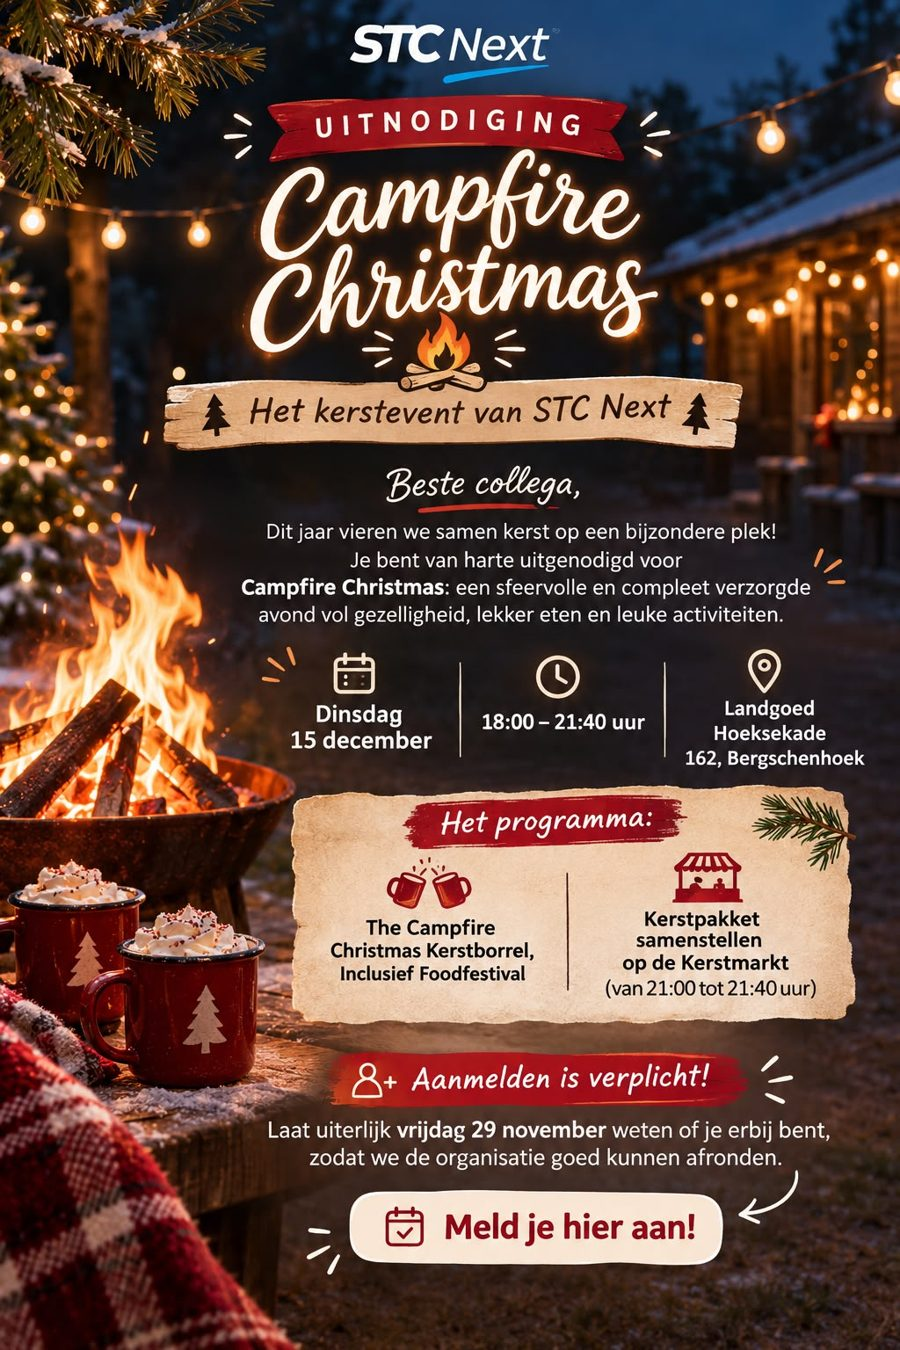
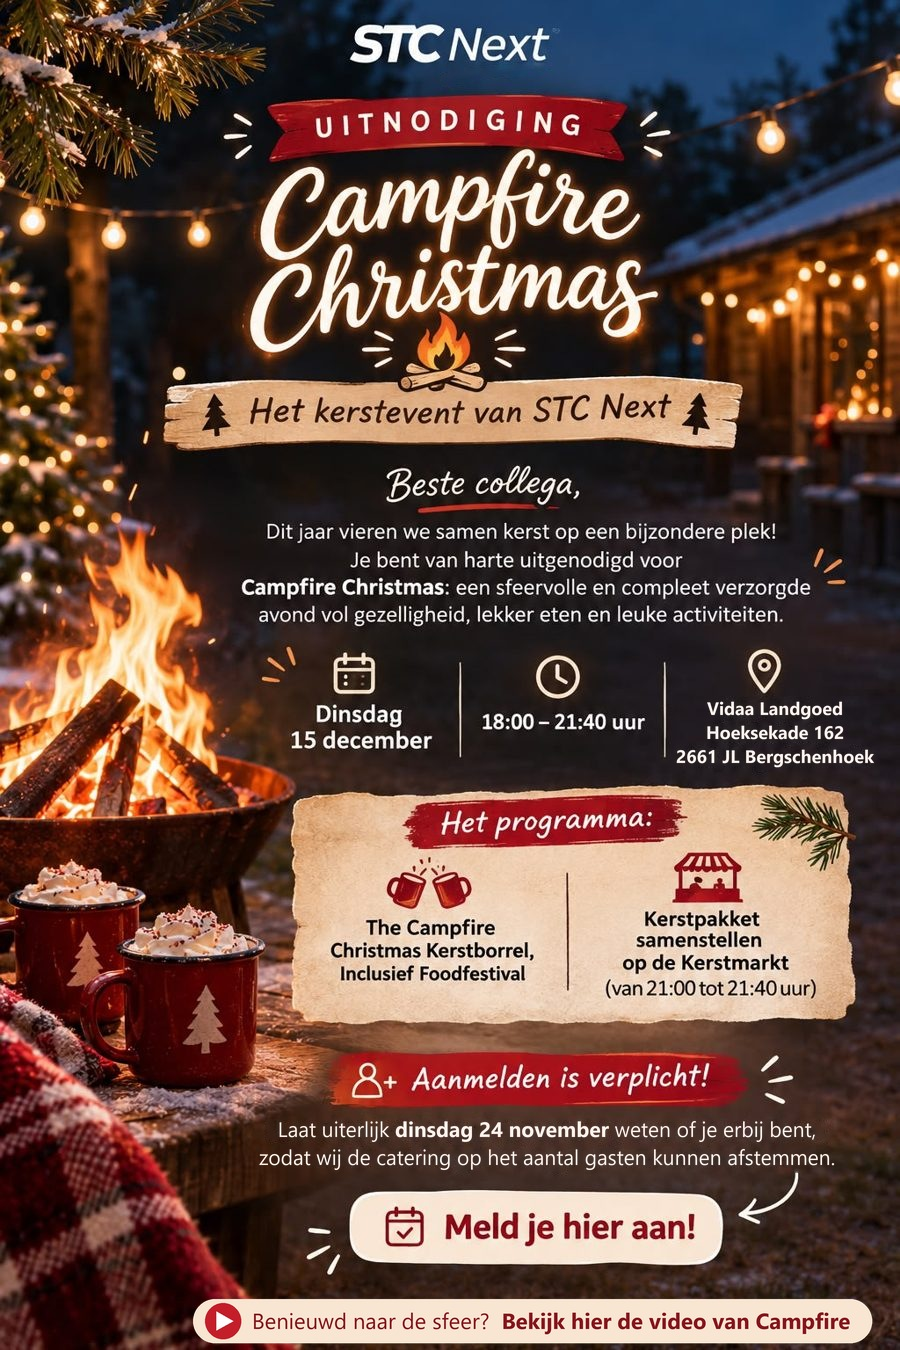
feat: yeni hesap, son gün 24 Kasım, karttaki metinler ve animasyonlu video düğmesi

diff --git a/index.html b/index.html
@@ -19,6 +19,12 @@
   .meld { position: absolute; left: 38.6%; top: 88.2%; width: 42%; height: 5.6%; min-height: 0; padding: 0; border: 0; border-radius: 14px; background: transparent;
     animation: gloed 2.2s ease-in-out infinite; }
   @keyframes gloed { 50% { box-shadow: 0 0 0 4px rgba(255, 190, 90, .55), 0 0 26px 6px rgba(255, 170, 70, .55); } }
+  /* Görseldeki video düğmesinin tam üstünde (yer: mail/maak-kaart.py çıktısı): aynı parlama + büyüyüp küçülen oynat üçgeni. */
+  .vid { position: absolute; left: 21.44%; top: 96.22%; width: 75.44%; height: 3.26%; border-radius: 99px; animation: gloed 2.2s ease-in-out infinite; }
+  .vid:focus-visible { outline: 3px solid var(--glow); outline-offset: 2px; }
+  .vid i { position: absolute; left: 1.77%; top: 9.09%; height: 81.82%; aspect-ratio: 1; border-radius: 50%; background: #c41e2a; }
+  .vid i::after { content: ""; position: absolute; inset: 0; background: #fff; clip-path: polygon(32% 24%, 32% 76%, 79% 50%); animation: speel 1.1s ease-in-out infinite; }
+  @keyframes speel { 0%, 100% { transform: scale(.72); } 50% { transform: scale(1.22); } }
   dialog { border: 0; width: min(420px, calc(100vw - 28px)); max-height: calc(100vh - 28px); padding-top: 34px !important; }
   dialog::backdrop { background: rgba(10, 8, 6, .72); backdrop-filter: blur(3px); }
   .sluit { position: absolute; right: 10px; top: 10px; min-height: 0; width: 40px; height: 40px; padding: 0; border: 0; border-radius: 12px; background: transparent; color: var(--muted); font-size: 18px; }
@@ -36,22 +42,26 @@
   button[aria-pressed="true"] { box-shadow: 0 0 0 3px var(--paper), 0 0 0 6px #2e7d4f !important; }
   button .vink { display: none; }
   button[aria-pressed="true"] .vink { display: inline; }
-  .status { margin: 16px 0 0; padding: 12px 14px; border-radius: 14px; font-weight: 600; text-align: center; }
-  .status.ok { background: #e2f1e6; color: #1d5a37; }
+  .status { margin: 18px 0 0; padding: 12px 14px; border-radius: 16px; font-weight: 600; text-align: center; }
+  .status.ok { display: flex; align-items: center; justify-content: center; gap: 12px; padding: 16px; font-size: 18px; font-weight: 700; line-height: 1.3; text-align: left;
+    color: #fff; background: linear-gradient(180deg, #2a9159, #1f7a48); box-shadow: 0 8px 20px rgba(31, 122, 72, .35); animation: pop .4s ease-out; }
+  .status.ok::before { content: "✓"; flex: none; width: 32px; height: 32px; border-radius: 50%; display: grid; place-items: center; background: #fff; color: #1f7a48; font-size: 19px; }
+  @keyframes pop { from { transform: scale(.92); opacity: 0; } 60% { transform: scale(1.03); } }
   .status.fout { background: #fbe3e1; color: #8a1820; }
   .klein { margin: 14px 0 0; font-size: 14px; color: var(--muted); text-align: center; }
   .melding { text-align: center; }
   .melding b { display: block; font-size: 20px; margin-bottom: 6px; }
   [hidden] { display: none !important; }
-  @media (prefers-reduced-motion: reduce) { button { transition: none; } .meld { animation: none; } }
+  @media (prefers-reduced-motion: reduce) { button { transition: none; } .meld, .status.ok, .vid, .vid i::after { animation: none; } }
 </style>
 </head>
 <body>
 <main>
   <div class="kaart">
-    <img src="uitnodiging.jpg" width="900" height="1350" alt="Uitnodiging Campfire Christmas, het kerstevent van STC Next: dinsdag 15 december, 18:00 – 21:40 uur, Landgoed Hoeksekade 162, Bergschenhoek. Programma: kerstborrel met foodfestival en kerstpakket samenstellen op de kerstmarkt. Aanmelden is verplicht.">
+    <img src="uitnodiging.jpg" width="900" height="1350" alt="Uitnodiging Campfire Christmas, het kerstevent van STC Next: dinsdag 15 december, 18:00 – 21:40 uur, Vidaa Landgoed, Hoeksekade 162, 2661 JL Bergschenhoek. Programma: kerstborrel met foodfestival en kerstpakket samenstellen op de kerstmarkt. Aanmelden is verplicht. Onderaan: bekijk de video van Campfire.">
     <!-- Davetiyedeki "Meld je hier aan!" düğmesinin tam üstünde duran görünmez düğme (konum görselin yüzdesi olarak). -->
     <button id="meld" class="meld" type="button" aria-label="Meld je hier aan"></button>
+    <a class="vid" href="https://vimeo.com/reviews/a7122599-1072-48ae-897e-d2fb771d348b/videos/1153627011" target="_blank" rel="noopener" aria-label="Bekijk de video van Campfire"><i aria-hidden="true"></i></a>
   </div>
 
   <dialog id="dlg" class="card" aria-labelledby="hallo">
@@ -80,7 +90,13 @@
 (() => {
   const $ = id => document.getElementById(id);
   const scriptUrl = (window.RSVP_CONFIG || {}).scriptUrl;
-  const code = new URLSearchParams(location.search).get('c') || '';
+  // Kişiye özel kod adres çubuğundan silinir (uzun link görünmesin, kopyalanıp paylaşılmasın); sekme yenilenirse sessionStorage'dan okunur.
+  const uitLink = new URLSearchParams(location.search).get('c');
+  let code = uitLink || '';
+  try {
+    if (uitLink) { sessionStorage.setItem('c', uitLink); history.replaceState(null, '', location.pathname); }
+    else code = sessionStorage.getItem('c') || '';
+  } catch { /* depolama kapalıysa kod adreste kalır, sayfa yine çalışır */ }
 
   async function call(body) {
     // text/plain: tarayıcı ön kontrol (CORS preflight) yapmaz, Apps Script bunu kabul eder.

diff --git a/config.js b/config.js
@@ -1,4 +1,4 @@
 // Apps Script "Web-app" dağıtım adresi (…/exec). Kurulum: README.md
 window.RSVP_CONFIG = {
-  scriptUrl: 'https://script.google.com/macros/s/AKfycbxBIf9cRD5_ZnSTO5EV-b-3nvU4r09RYs2SbkrZFOCMHtTvjNRl3r0C80KdNDSNYOcB/exec',
+  scriptUrl: 'https://script.google.com/macros/s/AKfycbyjztqK8lpJhNwKEiQ2owZ7sZL4AdTIE6h6VbMNAjxiIfbhwUDddghvFm9HQmRflsQz/exec',
 };
